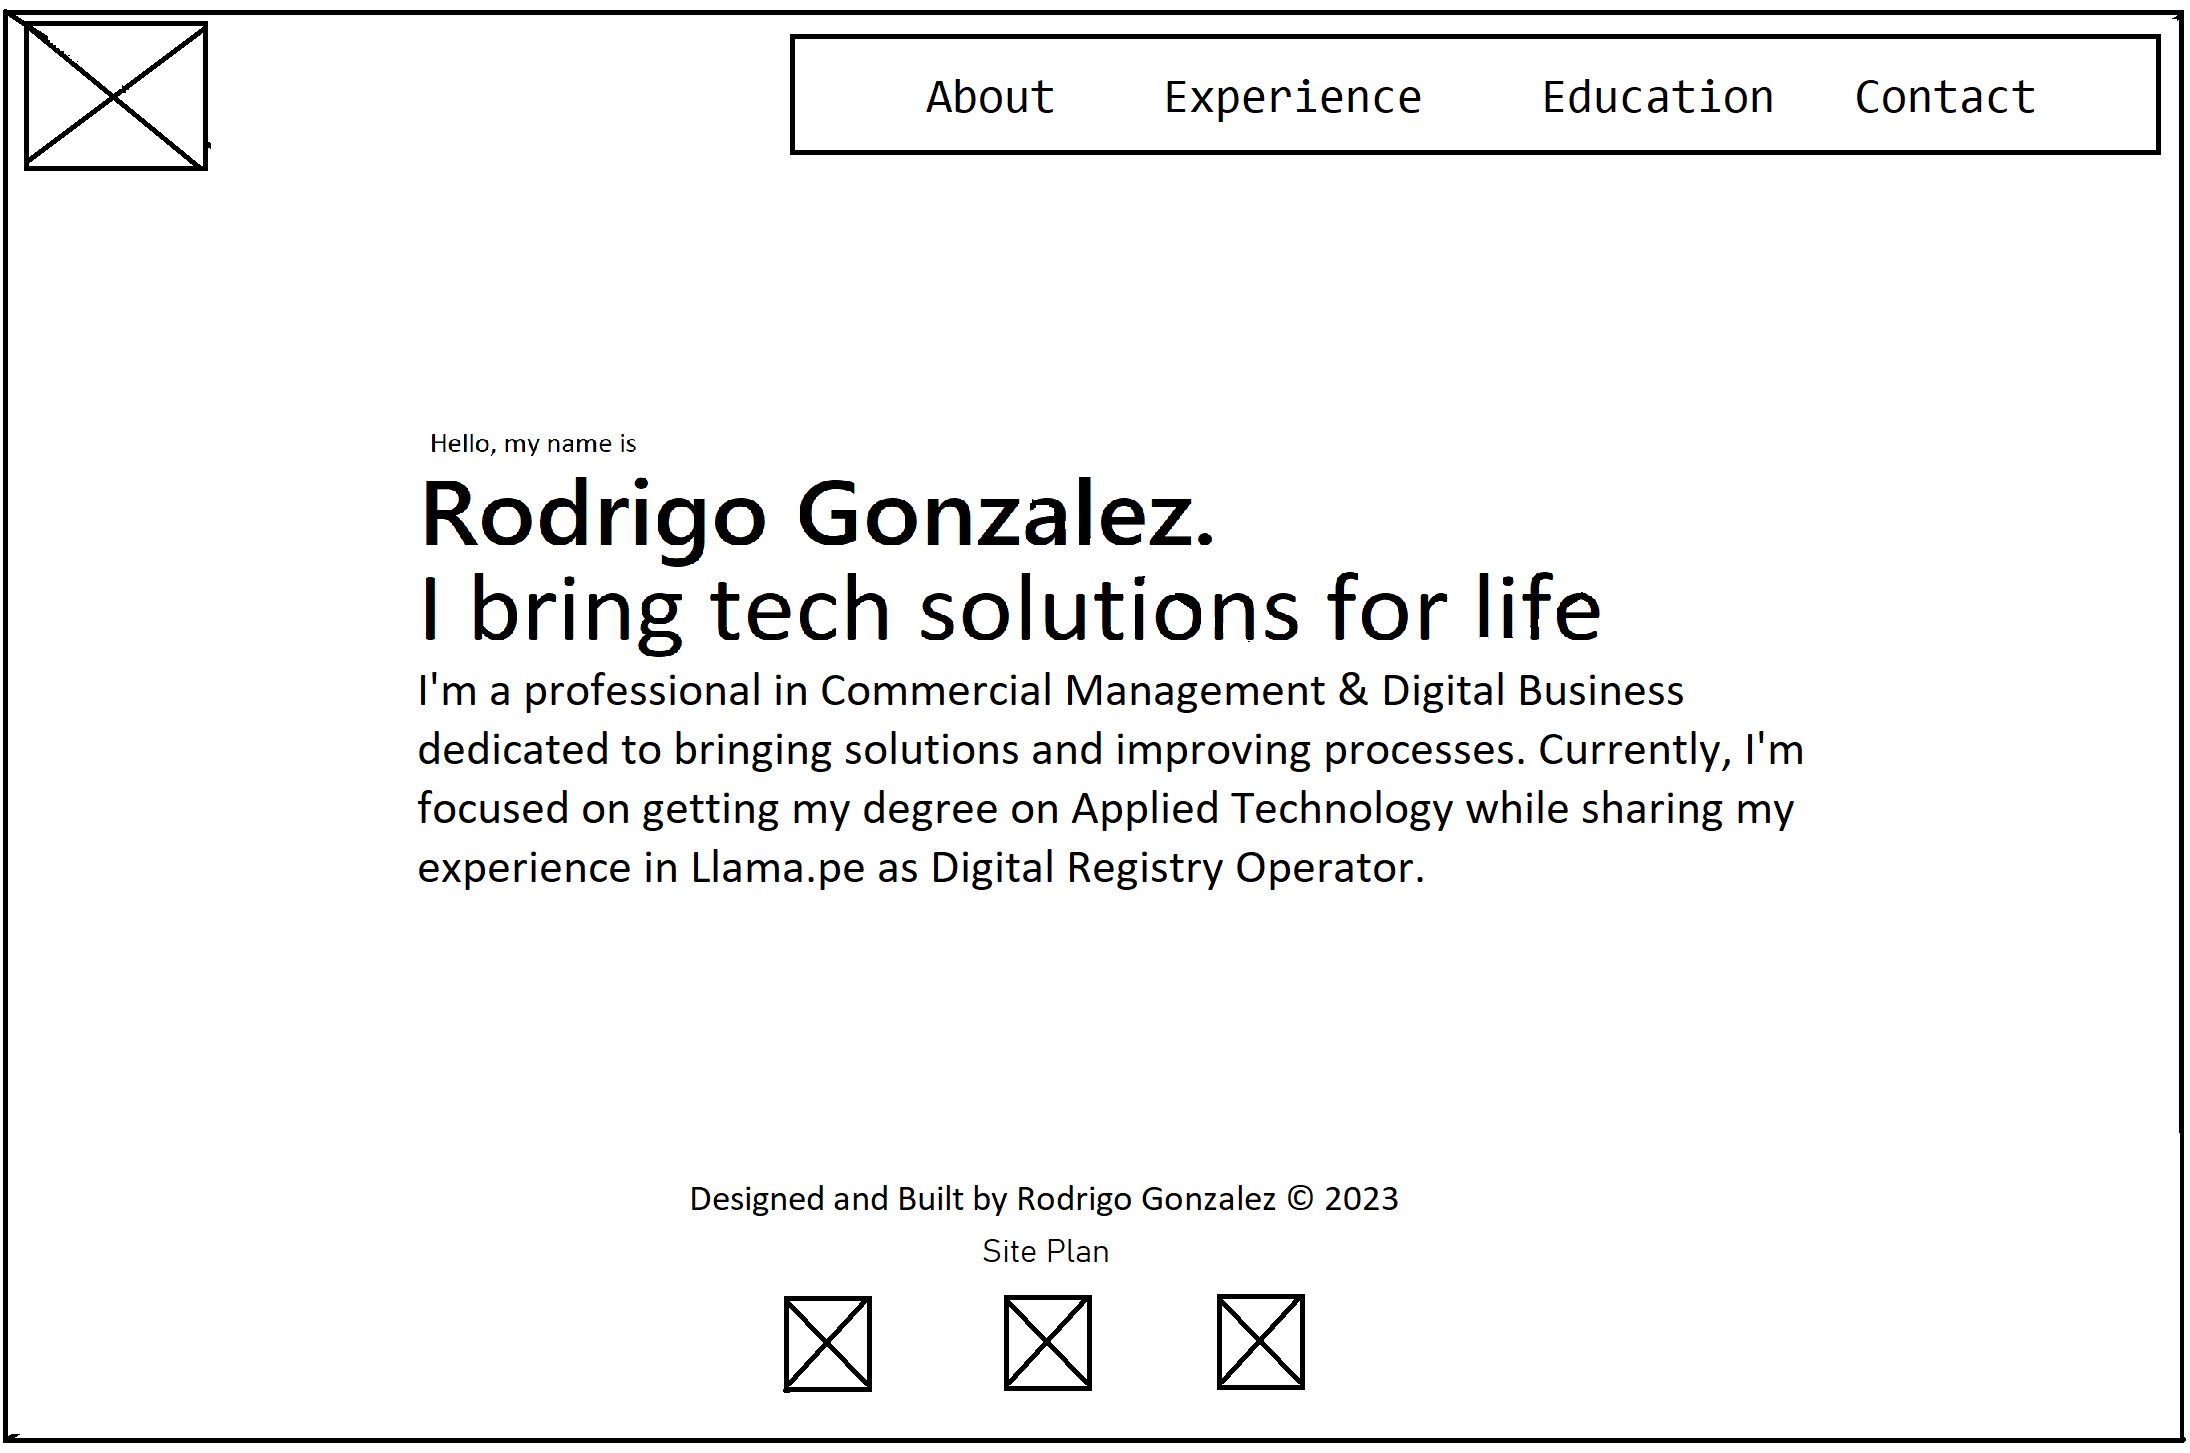
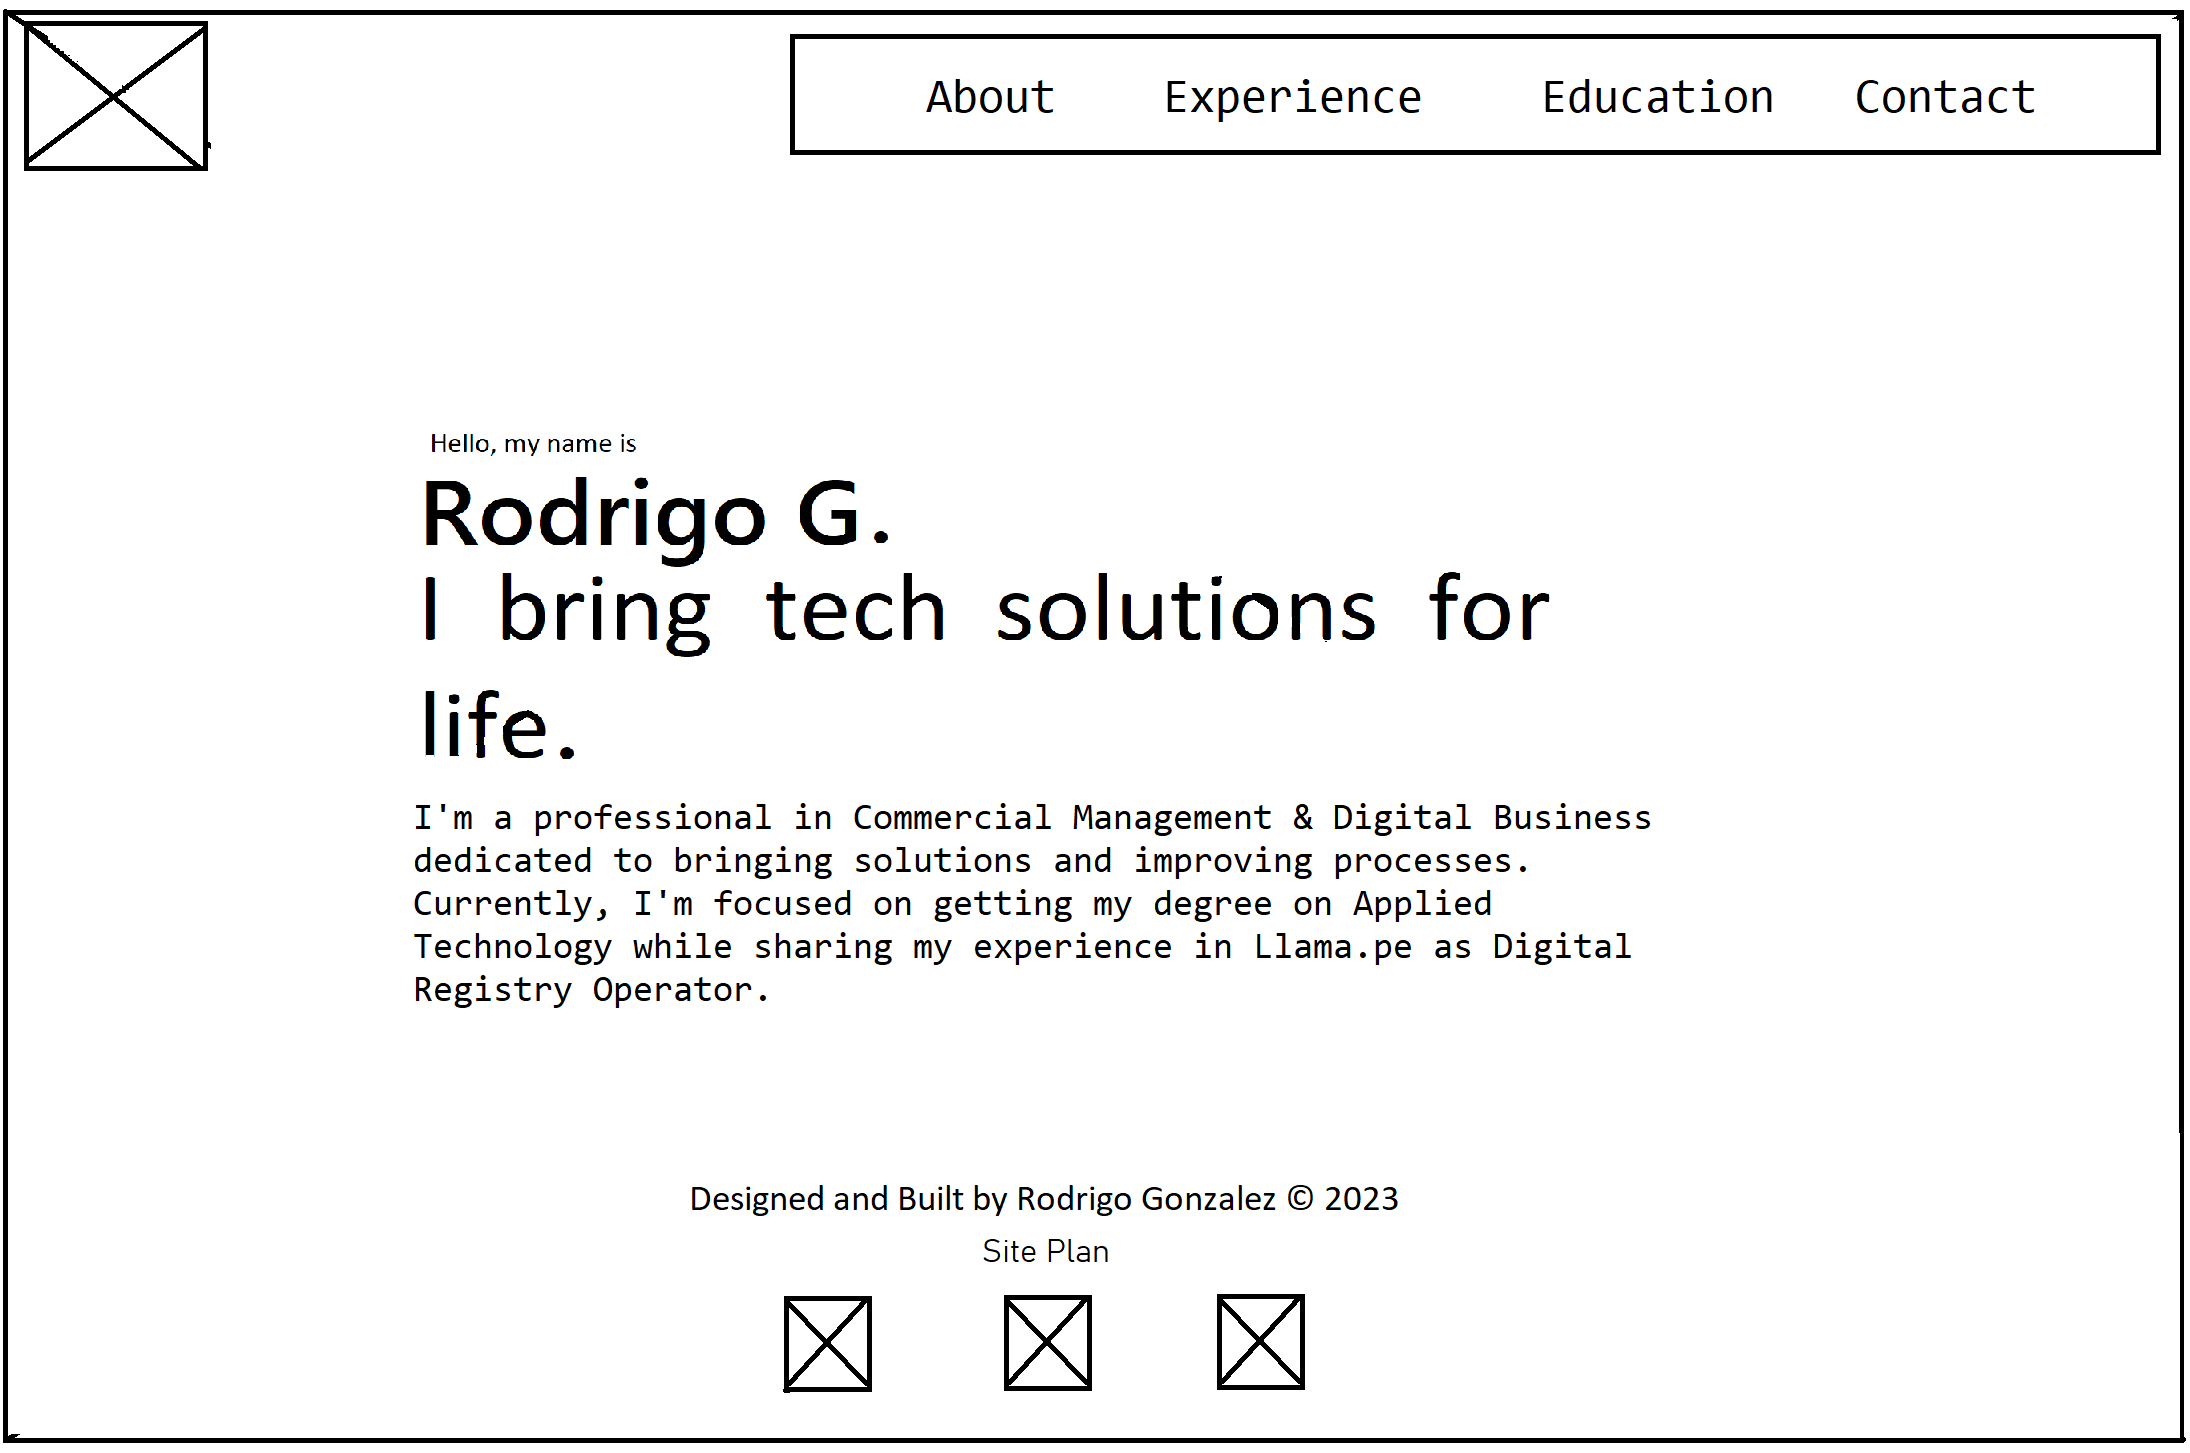
updates

Changed region(s): [[0.1863, 0.3407, 0.8384, 0.7123], [0.6831, 0.6504, 0.7452, 0.6813]]

diff --git a/personal-site/experience.html b/personal-site/experience.html
@@ -43,8 +43,8 @@
             <div class="tabcontent" id="T1">
                 <h1>Llama.pe S.A</h1>
                 <h2>Digital Registry Operator <a>(Nov 2020 - Present)</a></h2>
-                <p> <a>•</a> Increase data security and confidentiality in each digital certificate request by 70%.<br> 
-                    <a>•</a> Promoted after one year because of my strong work ethic and willingness to learn.<br>
+                <p> <a>•</a> Increase data security and confidentiality in each digital certificate request by 70%.<br><br> 
+                    <a>•</a> Promoted after one year because of my strong work ethic and willingness to learn.<br><br>
                     <a>•</a> Leader of the validation circle with 9 people in my charge.</p>
                 
                 <div class="exp-img" id="img-t1"><a href="https://www.llama.pe/" target="_blank" class="hyperlinks">
@@ -55,14 +55,11 @@
             <div class="tabcontent" id="T2">
                 <h1>EfectyGo S.A.C.</h1>
                 <h2>Business Executive <a>(Mar 2019 - Mar 2020) 1 yr</a></h2>
-                <p><a>•</a> Generate business strategies.<br> 
-                    <a>•</a> Commercial management of client portfolio.<br>
-                    <a>•</a> Strengthen and increase the customer base of the commercial portfolio.<br> 
-                    <a>•</a> Investigate and adopt a proactive attitude in the search and acquisition of new clients.<br> 
-                    <a>•</a> Execute and reorient the business plan according to market circumstances. <br>
-                    <a>•</a> Carry out constant monitoring in order to build customer loyalty through an excellent post-sale service (Relational Marketing and CRM).<br>
-                    <a>•</a> Being the visible face to attend to all the client's requirements, not only the strictly commercial ones.<br>
-                    <a>•</a> Maintain a constant relationship with clients, informing them about the status of their operations and updating the database.<br></p>
+                <p><a>•</a> Generate business strategies.<br><br>
+                    <a>•</a> Commercial management of client portfolio.<br><br>
+                    <a>•</a> Strengthen and increase the customer base of the commercial portfolio.<br><br> 
+                    <a>•</a> Investigate and adopt a proactive attitude in the search and acquisition of new clients.<br><br> 
+                    <a>•</a> Execute and reorient the business plan according to market circumstances. <br></p>
                 
                 <div class="exp-img" id="img-t7"><a href="http://www.efectygo.pe/" target="_blank"  class="hyperlinks">
                     <img class="companyLogo" src="images/EfectyGo_logo.png" alt="EfectyGo" ></a>
@@ -72,15 +69,13 @@
             <div class="tabcontent" id="T3">
                 <h1>Argenper S.A.</h1>
                 <h2>Office Manager <a>(Sep 2012 - Mar 2015) 2 yrs 6 mos</a></h2>
-                <p> <a>•</a> Responsible for agency and leadership of assigned collaborators.<br>
-                    <a>•</a> In charge of correct compliance in the delivery and reception of money transfer operations, purchase and sale of currency, correspondence, parcels and ticket sales; At national and international level.<br>
-                    <a>•</a> Close coordination with the Departments of Operations, Treasury, Tickets and Tourist Service.<br>
-                    <a>•</a> Application of quality policies and strategies in service care.<br>
-                    <a>•</a> Compliance with company management standards and instruments.<br>
-                    <a>•</a> Ensure compliance with comprehensive risk management.<br>
-                    <a>•</a> Compliance with the rules of the System for the Prevention of Money Laundering and Financing of Terrorism.<br>
-                    <a>•</a> Preparation of the Operations Registry report for Amounts subject to control and the corresponding affidavit.<br>
-                    <a>•</a> Execution of the other functions inherent to the position.<br></p>
+                <p> <a>•</a> Responsible for agency and leadership of assigned collaborators.<br><br>
+                    <a>•</a> Close coordination with the Departments of Operations, Treasury, Tickets and Tourist Service.<br><br>
+                    <a>•</a> Application of quality policies and strategies in service care.<br><br>
+                    <a>•</a> Compliance with company management standards and instruments.<br><br>
+                    <a>•</a> Ensure compliance with comprehensive risk management.<br><br>
+                    <a>•</a> In charge of correct compliance in the delivery and reception of money transfer operations, purchase and sale of currency, correspondence, parcels and ticket sales; At national and international level.<br><br>
+                </p>
                 
                 <div class="exp-img" id="img-t8"><a href="http://www.argenper.com.pe/" target="_blank"  class="hyperlinks">
                     <img class="companyLogo" src="images/Argenper_logo.png" alt="Argenper" ></a>

diff --git a/personal-site/site-plan.html b/personal-site/site-plan.html
@@ -192,20 +192,14 @@
           • Strengthen and increase the customer base of the commercial portfolio.
           • Investigate and adopt a proactive attitude in the search and acquisition of new clients.
           • Execute and reorient the business plan according to market circumstances.
-          • Carry out constant monitoring in order to build customer loyalty through an excellent post-sale service (Relational Marketing and CRM).
-          • Being the visible face to attend to all the client's requirements, not only the strictly commercial ones.
-          • Maintain a constant relationship with clients, informing them about the status of their operations and updating the database.
         <p>Argenper S.A.</p>
           Office Manager (Sep 2012 - Mar 2015) 2 yrs 6 mos 
           • Responsible for agency and leadership of assigned collaborators.
-          • In charge of correct compliance in the delivery and reception of money transfer operations, purchase and sale of currency, correspondence, parcels and ticket sales; At national and international level.
           • Close coordination with the Departments of Operations, Treasury, Tickets and Tourist Service.
           • Application of quality policies and strategies in service care.
           • Compliance with company management standards and instruments.
           • Ensure compliance with comprehensive risk management.
-          • Compliance with the rules of the System for the Prevention of Money Laundering and Financing of Terrorism.
-          • Preparation of the Operations Registry report for Amounts subject to control and the corresponding affidavit.
-          • Execution of the other functions inherent to the position.
+          • In charge of correct compliance in the delivery and reception of money transfer operations, purchase and sale of currency, correspondence, parcels and ticket sales; At national and international level.
       </p>
       <p>Images for the Page 3</p>
         <img src="images/Llama.pe_logo.jpg" alt="image for page3">

diff --git a/personal-site/education.html b/personal-site/education.html
@@ -62,7 +62,7 @@
             <div class="tabcontent" id="T3">
                 <h1>ISIL School</h1>
                 <h2>Administration and Business Management <a>(Dec 2020 - Dec 2021)</a></h2>
-                <p><a>•</a> Management Control Business Certificate<br>
+                <p><a>•</a> Management Control Business Certificate<br><br>
                    <a>•</a> Product Management and Innovative Services Certificate<br></p>
             
                 <div class="exp-img" id="img-t4"><a href="https://isil.pe/escuela/" target="_blank"  class="hyperlinks">
@@ -73,8 +73,8 @@
             <div class="tabcontent" id="T4">
                 <h1>ISIL - San Ignacio de Loyola Institute</h1>
                 <h2>Commercial Management & Digital Business <a>(Jan 2018 - Dec 2020)</a></h2>
-                <p><a>•</a> Business Consulting Certificate<br>
-                    <a>•</a> Management of Commercial Teams Certificate<br>
+                <p><a>•</a> Business Consulting Certificate<br><br>
+                    <a>•</a> Management of Commercial Teams Certificate<br><br>
                     <a>•</a> E-Commerce and Business Models Certificate<br></p>
             
                 <div class="exp-img" id="img-t5"><a href="http://www.isil.pe/" target="_blank"  class="hyperlinks">

diff --git a/personal-site/index.html b/personal-site/index.html
@@ -27,8 +27,8 @@
 
     <main class="contenido" id="content1">
         <h1 class="cont1" id="p1">Welcome! My name is</h1>
-        <h2 class="cont1" id="p2">Rodrigo Gonzalez.</h2>
-        <h3 class="cont1" id="p3">I bring technological solutions to life.</h3>
+        <h2 class="cont1" id="p2">Rodrigo G.</h2>
+        <h3 class="cont1" id="p3">I bring tech solutions for life.</h3>
         <p class="cont1" id="p4">I'm a professional in Commercial Management & Digital Business dedicated to bringing solutions and improving processes. Currently, I'm focused on getting my degree on Applied Technology while sharing my experience
             in <a href="https://www.llama.pe/" target="_blank" class="hyperlinks">Llama.pe</a> as Digital Registry Operator.</p>
     </main>
